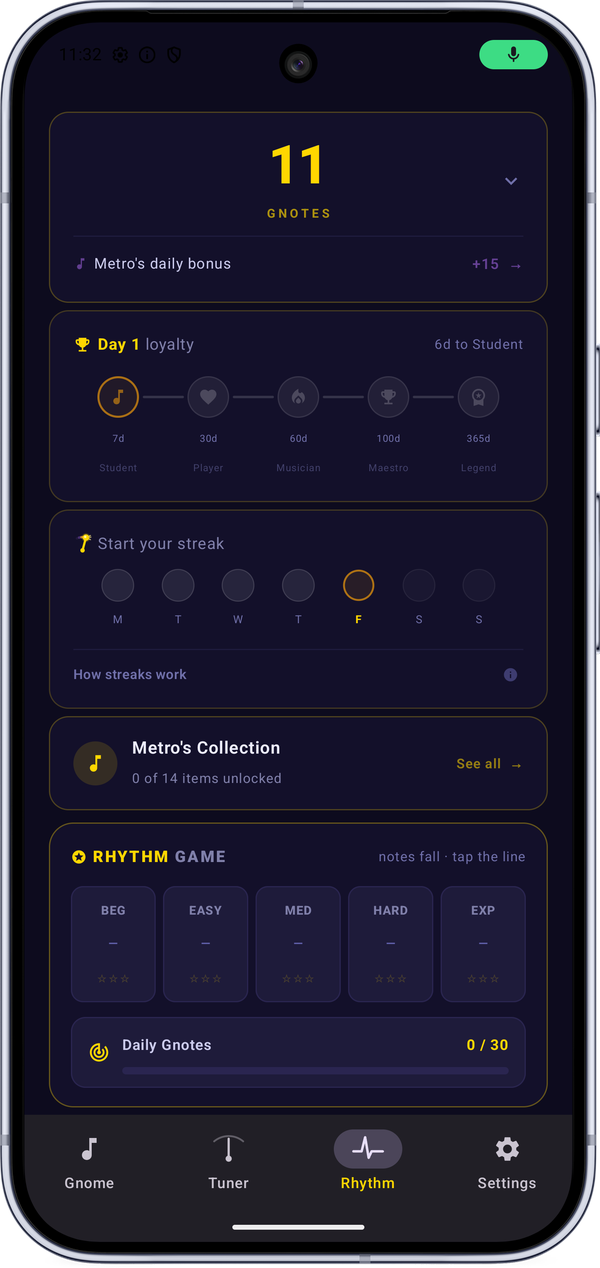
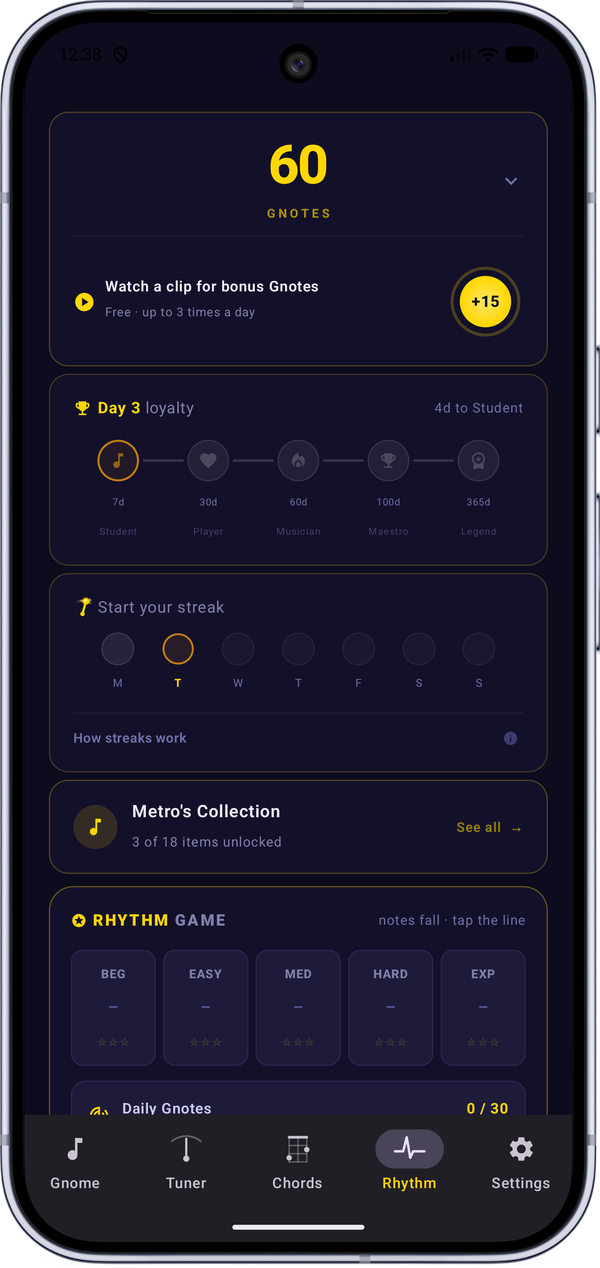
Homepage: Chord Finder in copy, schema and FAQ; v6 screenshots
Replace the six showcase screenshots with the v6 five-tab captures (same
frame and size; Settings dropped, Chord Finder added in tab order). Add the
chord finder to the hero, meta/OG/Twitter descriptions, SoftwareApplication
and FAQPage schema, the visible FAQ, a seventh feature pillar, the Guitarists
card and the no-subscription promise. Title tag left as-is.

diff --git a/landing/index.html b/landing/index.html
@@ -4,7 +4,7 @@
   <meta charset="UTF-8">
   <meta name="viewport" content="width=device-width, initial-scale=1.0">
   <title>Metro Gnome - Free Metronome &amp; Chromatic Tuner for Android</title>
-  <meta name="description" content="Free metronome, chromatic tuner, rhythm game, and speed trainer for Android. Tap tempo, train your speed, and stay in time. Built for real musicians.">
+  <meta name="description" content="Free metronome, chromatic tuner, chord finder, rhythm game, and speed trainer for Android. Tap tempo, name any chord, stay in time. Built for real musicians.">
   <meta name="robots" content="index, follow">
   <meta name="google-site-verification" content="qwODXdkzQirlCbR2ycGuLXg0EKr2PddGe5CZnxfjDTw">
   <meta name="google-site-verification" content="UFwW2Ybk-LWanrl-LZsS4XjzSsgx0mVHjApxjV7BqP0">
@@ -16,7 +16,7 @@
   <meta property="og:type" content="website">
   <meta property="og:site_name" content="Metro Gnome">
   <meta property="og:title" content="Metro Gnome - Free Metronome &amp; Chromatic Tuner for Android">
-  <meta property="og:description" content="Free metronome, chromatic tuner, rhythm game, and speed trainer for Android. Tap tempo, train your speed, and stay in time. Built for real musicians.">
+  <meta property="og:description" content="Free metronome, chromatic tuner, chord finder, rhythm game, and speed trainer for Android. Tap tempo, name any chord, stay in time. Built for real musicians.">
   <meta property="og:url" content="https://metrognome.co.za/">
   <meta property="og:image" content="https://metrognome.co.za/metro.png">
   <meta property="og:image:alt" content="Metro Gnome, the friendly gnome metronome and tuner for Android">
@@ -24,7 +24,7 @@
   <!-- Twitter Card -->
   <meta name="twitter:card" content="summary_large_image">
   <meta name="twitter:title" content="Metro Gnome - Free Metronome &amp; Chromatic Tuner for Android">
-  <meta name="twitter:description" content="Free metronome, chromatic tuner, rhythm game, and speed trainer for Android. Tap tempo, train your speed, and stay in time.">
+  <meta name="twitter:description" content="Free metronome, chromatic tuner, chord finder, rhythm game, and speed trainer for Android. Tap tempo, name any chord, and stay in time.">
   <meta name="twitter:image" content="https://metrognome.co.za/metro.png">
 
   <!-- SoftwareApplication Schema -->
@@ -44,10 +44,11 @@
     "sameAs": [
       "https://metrognome.co.za/"
     ],
-    "description": "Free metronome, chromatic tuner, rhythm game, speed trainer, and practice timer for Android with smart ambient noise detection and a rewards system.",
+    "description": "Free metronome, chromatic tuner, chord finder, rhythm game, speed trainer, and practice timer for Android with smart ambient noise detection and a rewards system.",
     "featureList": [
       "Precision metronome with tap tempo and BPM presets",
       "Chromatic tuner with ambient noise detection",
+      "Chord finder that names any chord you play or tap, on guitar or piano",
       "Rhythm game playable by tapping or clapping",
       "Speed trainer with automatic BPM ramps",
       "Practice timer with daily streak tracking",
@@ -72,7 +73,7 @@
         "name": "Is Metro Gnome really a free metronome app for Android?",
         "acceptedAnswer": {
           "@type": "Answer",
-          "text": "Yes, completely free. The metronome, chromatic tuner, rhythm game, and speed trainer are all free with no time limits. Optional purchases remove ads or unlock cosmetic items, but the core tools never cost anything. Metro Gnome works on Android 7.0 and above, fully offline."
+          "text": "Yes, completely free. The metronome, chromatic tuner, chord finder, rhythm game, and speed trainer are all free with no time limits. Optional purchases remove ads or unlock cosmetic items, but the core tools never cost anything. Metro Gnome works on Android 7.0 and above, fully offline."
         }
       },
       {
@@ -101,6 +102,14 @@
       },
       {
         "@type": "Question",
+        "name": "Does Metro Gnome have a chord finder?",
+        "acceptedAnswer": {
+          "@type": "Answer",
+          "text": "Yes. The Chords tab names any chord one note at a time. Play the chord as an arpeggio into the microphone, or tap the notes on a drawn guitar fretboard or piano keyboard, and the app names it (C, Am7, D7/F#), spells every note, offers alternative readings, and can play the chord back. The lowest note counts as the bass, so C E G A reads as C6 with C at the bottom and Am7 with A at the bottom. It is free and works fully offline."
+        }
+      },
+      {
+        "@type": "Question",
         "name": "Is Metro Gnome good for music teachers?",
         "acceptedAnswer": {
           "@type": "Answer",
@@ -112,7 +121,7 @@
         "name": "Does it work offline?",
         "acceptedAnswer": {
           "@type": "Answer",
-          "text": "Fully. The metronome, tuner, rhythm game, and speed trainer all run entirely on-device with no internet connection required. The only feature that needs a connection is loading ads, which you can remove with a one-time purchase."
+          "text": "Fully. The metronome, tuner, chord finder, rhythm game, and speed trainer all run entirely on-device with no internet connection required. The only feature that needs a connection is loading ads, which you can remove with a one-time purchase."
         }
       },
       {
@@ -401,7 +410,11 @@
 
     .pillars { display: grid; gap: 1.5rem; margin-top: 2.5rem; }
 
-    @media (min-width: 640px) { .pillars { grid-template-columns: repeat(3, 1fr); } }
+    @media (min-width: 640px) {
+      .pillars { grid-template-columns: repeat(3, 1fr); }
+      /* Seven pillars: keep the last one centred rather than orphaned at the left. */
+      .pillars > .pillar:last-child:nth-child(3n + 1) { grid-column: 2; }
+    }
 
     .pillar {
       background: var(--bg);
@@ -432,6 +445,12 @@
       content: '✓'; position: absolute; left: 0;
       color: var(--gold); font-weight: 700;
     }
+    /* Inline links inside body copy (pillar bullets, FAQ answers) read as links. */
+    .pillar ul li a, .faq-answer a {
+      color: var(--purple-light); text-decoration: underline; text-underline-offset: 2px;
+      transition: color 0.15s;
+    }
+    .pillar ul li a:hover, .faq-answer a:hover { color: var(--gold); }
 
     /* ── Audience ──────────────────────────────────────────────────── */
     #audience { background: var(--bg); }
@@ -723,7 +742,7 @@
       </div>
       <h1>The Metronome App Built for<br><em>Real Musicians</em></h1>
       <p class="subhead">
-        Free metronome, chromatic tuner, and rhythm trainer in one app.
+        Free metronome, chromatic tuner, chord finder, and rhythm trainer in one app.
         No subscription. No gimmicks. Just solid tools that work.
       </p>
       <a href="https://play.google.com/store/apps/details?id=com.wynandl.metrognome"
@@ -749,49 +768,49 @@
     <div class="container">
       <p class="section-label">See it in action</p>
       <h2>One app. Everything you need.</h2>
-      <p class="lead">From a precision metronome and chromatic tuner to a rhythm game, speed trainer, and daily rewards that keep you coming back.</p>
+      <p class="lead">From a precision metronome, chromatic tuner, and chord finder to a rhythm game, speed trainer, and daily rewards that keep you coming back.</p>
 
       <div class="shots">
         <figure class="shot">
           <div class="shot-frame">
-            <img src="screenshots/home.png" alt="Metro Gnome metronome screen showing 120 BPM Allegretto with Metro the gnome" loading="lazy" width="600" height="1268">
+            <img src="screenshots/home.png" alt="Metro Gnome metronome screen showing 120 BPM Allegro with Metro the gnome in his forest" loading="lazy" width="600" height="1268">
           </div>
           <figcaption class="shot-label"><strong>Metronome</strong> · meet Metro</figcaption>
         </figure>
 
         <figure class="shot">
           <div class="shot-frame">
-            <img src="screenshots/tuner.png" alt="Metro Gnome chromatic tuner reading the note A4" loading="lazy" width="600" height="1269">
+            <img src="screenshots/tuner.png" alt="Metro Gnome chromatic tuner reading the note A4, with the tuning drone panel below" loading="lazy" width="600" height="1268">
           </div>
           <figcaption class="shot-label"><strong>Tuner</strong> · any instrument</figcaption>
         </figure>
 
         <figure class="shot">
           <div class="shot-frame">
-            <img src="screenshots/rhythm-game.png" alt="Metro Gnome rhythm game with notes falling toward the hit line" loading="lazy" width="600" height="1269">
+            <img src="screenshots/chord-finder.png" alt="Metro Gnome chord finder with a guitar fretboard, ready to name a chord from played or tapped notes" loading="lazy" width="600" height="1268">
+          </div>
+          <figcaption class="shot-label"><strong>Chord Finder</strong> · play or tap notes</figcaption>
+        </figure>
+
+        <figure class="shot">
+          <div class="shot-frame">
+            <img src="screenshots/rhythm-game.png" alt="Metro Gnome rhythm game with notes falling toward the hit line" loading="lazy" width="600" height="1268">
           </div>
           <figcaption class="shot-label"><strong>Rhythm Game</strong> · tap or clap</figcaption>
         </figure>
 
         <figure class="shot">
           <div class="shot-frame">
-            <img src="screenshots/rewards.png" alt="Metro Gnome rewards screen with Gnotes, daily streak, and loyalty milestones" loading="lazy" width="600" height="1268">
+            <img src="screenshots/rewards.png" alt="Metro Gnome rewards screen with Gnotes, daily bonus, loyalty milestones, and streak" loading="lazy" width="600" height="1268">
           </div>
           <figcaption class="shot-label"><strong>Rewards</strong> · earn Gnotes</figcaption>
         </figure>
 
         <figure class="shot">
           <div class="shot-frame">
-            <img src="screenshots/unlockables.png" alt="Metro Gnome unlock reward showing a collectible gold hoop earring" loading="lazy" width="600" height="1269">
+            <img src="screenshots/unlockables.png" alt="Metro Gnome unlock reward showing a collectible gold hoop earring" loading="lazy" width="600" height="1268">
           </div>
           <figcaption class="shot-label"><strong>Collectibles</strong> · unlock items</figcaption>
-        </figure>
-
-        <figure class="shot">
-          <div class="shot-frame">
-            <img src="screenshots/settings.png" alt="Metro Gnome settings screen for tempo, time signature, and click sound" loading="lazy" width="600" height="1268">
-          </div>
-          <figcaption class="shot-label"><strong>Settings</strong> · make it yours</figcaption>
         </figure>
       </div>
     </div>
@@ -803,7 +822,7 @@
       <p class="section-label">What's inside</p>
       <h2>Far more than a metronome.</h2>
       <p class="lead">
-        Most apps do one thing. Metro Gnome gives you a precision metronome, a smart chromatic tuner,
+        Most apps do one thing. Metro Gnome gives you a precision metronome, a smart chromatic tuner, a chord finder,
         a rhythm game, a speed trainer, a practice timer, and a rewards system - all free, all in one place.
       </p>
 
@@ -848,6 +867,32 @@
             <li>Built-in tuning drone for intonation practice</li>
             <li>Reference pitch 415 to 466 Hz, shared with the drone</li>
             <li>Loopback and tuning fork calibration</li>
+          </ul>
+        </article>
+
+        <article class="pillar">
+          <div class="pillar-icon" aria-hidden="true">
+            <svg viewBox="0 0 24 24" fill="none" stroke="currentColor" stroke-width="1.8" stroke-linecap="round" stroke-linejoin="round">
+              <line x1="5" y1="5" x2="19" y2="5" stroke-width="2.6"/>
+              <line x1="5" y1="10" x2="19" y2="10"/>
+              <line x1="5" y1="15" x2="19" y2="15"/>
+              <line x1="5" y1="20" x2="19" y2="20"/>
+              <line x1="5" y1="5" x2="5" y2="20"/>
+              <line x1="12" y1="5" x2="12" y2="20"/>
+              <line x1="19" y1="5" x2="19" y2="20"/>
+              <circle cx="12" cy="12.5" r="1.7" fill="currentColor" stroke="none"/>
+              <circle cx="19" cy="17.5" r="1.7" fill="currentColor" stroke="none"/>
+            </svg>
+          </div>
+          <h3>Chord Finder</h3>
+          <p>Play a chord one note at a time, or tap it on a fretboard or keyboard, and get its name, spelled and explained.</p>
+          <ul>
+            <li>Names any chord you play or tap</li>
+            <li>Guitar fretboard and piano keyboard</li>
+            <li>The bass note decides: C6 or Am7, slash chords included</li>
+            <li>Alternative readings and a line about each chord</li>
+            <li>Hear it back, arpeggio then together</li>
+            <li>Also free in your browser: <a href="/tools/chord-finder.html">online chord finder</a></li>
           </ul>
         </article>
 
@@ -943,7 +988,7 @@
             </svg>
           </div>
           <h3>Guitarists</h3>
-          <p>Tune between songs with a tuner that works on a loud stage. Lock in a BPM preset for each song in your set.</p>
+          <p>Tune between songs with a tuner that works on a loud stage. Name any chord shape you find on the neck. Lock in a BPM preset for each song in your set.</p>
         </div>
 
         <div class="audience-card">
@@ -1167,7 +1212,7 @@
       <h2>No subscription. Ever.</h2>
       <p>
         The core app is completely free. There are optional cosmetic items and a one-time
-        ad-removal purchase - but the metronome, tuner, and rhythm game will always be free.
+        ad-removal purchase - but the metronome, tuner, chord finder, and rhythm game will always be free.
         No bait-and-switch. No features locked behind a paywall six months from now.
       </p>
     </div>
@@ -1184,7 +1229,7 @@
         <details>
           <summary>Is Metro Gnome really a free metronome app for Android?</summary>
           <div class="faq-answer">
-            Yes - completely free. The metronome, chromatic tuner, rhythm game, and speed trainer are all free with no time limits.
+            Yes - completely free. The metronome, chromatic tuner, chord finder, rhythm game, and speed trainer are all free with no time limits.
             There are optional purchases to remove ads or unlock cosmetic items, but the core tools never cost anything.
             Metro Gnome works on Android 7.0 and above, fully offline.
           </div>
@@ -1231,6 +1276,17 @@
         </details>
 
         <details>
+          <summary>Does Metro Gnome have a chord finder?</summary>
+          <div class="faq-answer">
+            Yes. The Chords tab names any chord one note at a time. Play the chord as an arpeggio into the microphone,
+            or tap the notes on a drawn guitar fretboard or piano keyboard, and the app names it (C, Am7, D7/F#),
+            spells every note, offers alternative readings, and can play the chord back. The lowest note counts as
+            the bass, so C E G A reads as C6 with C at the bottom and Am7 with A at the bottom. It is free and works
+            fully offline. There is also a <a href="/tools/chord-finder.html">browser version</a> you can use right now.
+          </div>
+        </details>
+
+        <details>
           <summary>Is Metro Gnome good for music teachers?</summary>
           <div class="faq-answer">
             Yes. The built-in practice timer lets you set a session goal (5, 10, 15, 20, or 30 minutes).
@@ -1243,7 +1299,7 @@
         <details>
           <summary>Does it work offline?</summary>
           <div class="faq-answer">
-            Fully. The metronome, tuner, rhythm game, and speed trainer all run entirely on-device - no internet
+            Fully. The metronome, tuner, chord finder, rhythm game, and speed trainer all run entirely on-device - no internet
             connection required. The only feature that needs a connection is loading ads (which you can remove with a
             one-time purchase).
           </div>

diff --git a/seo_context.md b/seo_context.md
@@ -63,6 +63,7 @@
 ## Website Indexing Status (as of 2026-06-12)
 - metrognome.co.za: **INDEXED** - Google email confirmed impressions started June 6, 2026
 - **Canonical issue found + fixed 2026-06-12:** GSC reported the homepage as "Duplicate, Google chose different canonical than user", Google-selected canonical = `https://metro-gnome-gilt.vercel.app/`. The canonical TAG was correct, but the .vercel.app default domain was fully indexable and served identical content, so Google overrode it. Fix: host-conditional 301/308 from metro-gnome-gilt.vercel.app to metrognome.co.za (plus /index.html, /blog, /blog/index.html normalisation), placed in **landing/vercel.json** (root-level vercel.json is ignored; Root Directory = landing). All redirects verified live. GSC "Validate Fix" still to submit.
+- **Homepage refreshed for the Chords tab 2026-09-16 (v6.x is live on the Play Store):** the six showcase screenshots were replaced with the v6 five-tab captures (same phone frame, same 600x1268 size; Settings dropped, Chord Finder added in tab order: Metronome, Tuner, Chord Finder / Rhythm Game, Rewards, Collectibles). Chord finder added to the hero subhead, meta/OG/Twitter descriptions (meta trimmed to 157 chars), SoftwareApplication description + featureList, FAQPage schema and visible FAQ (new "Does Metro Gnome have a chord finder?" entry, linking the browser tool; "free" and "offline" answers now list it), a seventh feature pillar between the tuner and the rhythm game (linking `/tools/chord-finder.html`; the lone last card is centred by CSS), the Guitarists audience card and the no-subscription promise. `<title>` deliberately unchanged: the homepage is on a confirmed climb and "chromatic tuner" there carries a priority keyword; the chord finder's own landing surfaces are the tool and the theory post. Sitemap lastmod bumped; IndexNow submitted.
 - **On-page SEO overhaul 2026-06-12 (live):** showcase rebuilt with 6 current screenshots (4-tab nav); features expanded to 6 pillars (adds Speed Trainer, Practice & Streaks, Rewards & Collectibles); FAQPage structured data added (was none); SoftwareApplication featureList added; meta + OG descriptions refreshed; Twitter Card tags added; new visible speed-trainer FAQ. Widened coverage of the speed-trainer / practice / rewards keyword clusters.
 - Fix applied: GSC Request Indexing submitted for all 8 pages on 2026-06-03 - worked within 3 days
 - GSC baseline captured 2026-06-17: 17 impressions / 0 clicks over 28 days; top query "is google metronome accurate" (5 impr), drumming queries 8 of 17. Zero clicks expected at <2 weeks indexed (positions 20+).
@@ -108,7 +109,7 @@
 - Current installs: 5,000+ (homepage hero badge updated 2026-08-18, commit `81379c2`, reflecting the real Play Store install-bucket jump from 1,000+)
 - Last updated (production / Play Store): **2026-09-03, v5.22 / versionCode 76** (dev confirmed live same day). This is a big jump from the long-standing v5.14 baseline and it carries the first genuinely new consumer-facing marketing hook since Groove Check: **a tuning drone in the Tuner tab**. Earlier in the gap: v5.15/5.16 (rewarded-ad Gnotes, mic self-test calibration overhaul), v5.17/5.18 (FCM push, mic permission recovery, odd-meter labelling fix), v5.19 (character re-shade), v5.20/5.21 (live Gnotes counter, purchase-error toasts). **Outreach angle refreshed: the drone is the newest hook and the only one no competitor roundup entry has been pitched on yet.** Previously: 2026-07-16, v5.14 / versionCode 64. Adds to v5.12: v5.13 (raised mic self-test ambient noise gate, Firebase BOM/Gradle bump - internal) and v5.14 (CheekTattoo loyalty item unlocked at 30 LoyaltyDays, tuner analytics param fix, AGP/Kotlin bumps). Neither v5.13 nor v5.14 introduced a consumer-facing marketing hook - the last outreach-relevant feature set remains the v5.9->v5.12 bundle below. No outreach or marketing activity shipped in the 07-03 to 07-16 window; see Open Action Items for the queue.
 - Live site + how-to-improve-your-timing.html now MATCH production: Groove Check present-tense copy is accurate, and the outreach hooks (Groove Check, noisy-room tuner, Cowbell) all reference live features. Outreach follow-ups are unblocked (but not yet sent - see Open Action Items).
-- seo_context last updated: 2026-09-14
+- seo_context last updated: 2026-09-16
 - **2026-08-24: "drum metronome app / metronome tap / tap metronome" scheduled check CLOSED.** drum metronome app kept growing normally (75 -> 85 -> 100 impressions). metronome tap and tap metronome are frozen exactly at the 08-14 numbers (38 and 27 impressions respectively) with zero movement in 10 days, while the site overall gained ~1,400 impressions elsewhere. Read as: the 08-10 title/meta fix produced a one-time bump (visible between 08-03 and 08-14) rather than an ongoing gain, or these two low-volume terms have hit a natural ceiling. No per-query position data available to confirm ranking directly. Not worth another rewrite pass on these two pages - do not re-open this check.
 - **Next session's first job (set 2026-09-14):** (1) has the dev pasted the GSC AI-features / Countries / Search Appearance reports, done the Bing WT import, requested indexing on the drone tool and guides hub, and submitted to AlternativeTo (all in Open Action Items); (2) nothing shipped on 09-14 is assessable before ~09-24, so do not read the odd meter tool's CTR, the guide pages or the drone tool from a pull earlier than that; (3) after 09-24 the three questions are whether the odd meter tool's CTR moved off zero, whether any guide page earns on "N/M time signature", and whether the drone tool earns on "tuning drone" / "online drone". The 09-02 first-job list below is retained for history only.
 - **Previous first job (set 2026-09-02):** the position-trend question is CLOSED (confirmed real, see the 09-02 snapshot) - do not re-litigate it. The open items are now: (1) **has the dev submitted to AlternativeTo** - the embed widgets shipped 09-02 (`def0a1e`), so the directory listing is the remaining half of the pivot, and it needs the dev because it requires an account. Also worth checking once indexed: whether `/embed/` earns impressions on the `embed metronome on website` cluster, and whether any referral traffic arrives carrying `?ref=embed`; (2) **the real Play Store rating + review count** (open since 08-14, now blocking two things - the removed `aggregateRating` schema and the AlternativeTo submission; needs the public listing's lifetime star average and total review count, NOT the Play Console 28-day recency stat supplied last time); (3) **GSC Pages rows 11-21 or filtered to `/tools/`** - the odd meter tool's 8-10 day embargo expired 09-01 and it was not in the top-10 rows, while "odd meter" as a query jumped 42 -> 79 impressions in nine days; whether the new tool is capturing any of that decides if the explainer-plus-tool pattern is worth a fourth cluster. **Do NOT re-ask about Colin Dorman or any outreach send status** - all seven threads are closed, and unconfirmed sends are explicitly not to be re-raised. **Read this file's Open Action Items and Website Indexing Status sections before pulling any fresh GSC screenshot** - the 2026-08-10 session duplicated a closed 07-30 investigation (Time Signatures 0% CTR) by skipping this step.
@@ -122,6 +123,7 @@
 - Hardware-timed precision metronome (sample-accurate, drift-free)
 - Smart chromatic tuner with ambient noise detection - locks on fast, rejects harmonics
 - Rhythm game (5 difficulty levels, tap or clap input)
+- **Chord Finder (NEW, live in v6.0, 2026-09-15)** - fifth tab. Names any chord one note at a time: play it as an arpeggio into the mic, or tap it on a drawn guitar fretboard (standard tuning, 12 frets) or four-octave piano. Bass note decides between readings (C6 vs Am7), slash chords, alternative readings, a checked one-line "about" per chord, spelled note chips, and "hear it" playback (arpeggio then together). Earns 5 Gnotes per chord named (45/day) and unlocks the Acoustic Guitar item at 25 distinct chords. Browser port at `/tools/chord-finder.html` shares the same theory code. Strummed (polyphonic) chords are out of scope by design.
 - Speed Trainer - structured BPM progression (set start/target/step, ascending or descending, fixed or % increment, bars per step, repeat count, live progress bar, swap button)
 - Groove Check (NEW, shipping v5.6, NOT yet in production) - opt-in microphone timing feedback for Practice and Speed Trainer. The app listens to your claps/playing, separates them from the click by frequency (spectral, not loudness), corrects for device audio latency with a one-time check, and scores how closely you land on the beat, rewarding good timing with a graded "Timing Bonus" in Gnotes. A very accurate clap also triggers a celebratory firework behind Metro. Runs entirely on-device, private, no account. The rhythm game uses the same listening engine to score clapping. This is the public face of what was the hidden "mic accuracy" code.
 - Gnotes practice currency - earned by metronome play, tuner note locks, rhythm game score, speed trainer, practice sessions, daily streaks, loyalty (daily open), installed-days bonus (1pt/day per install day)
